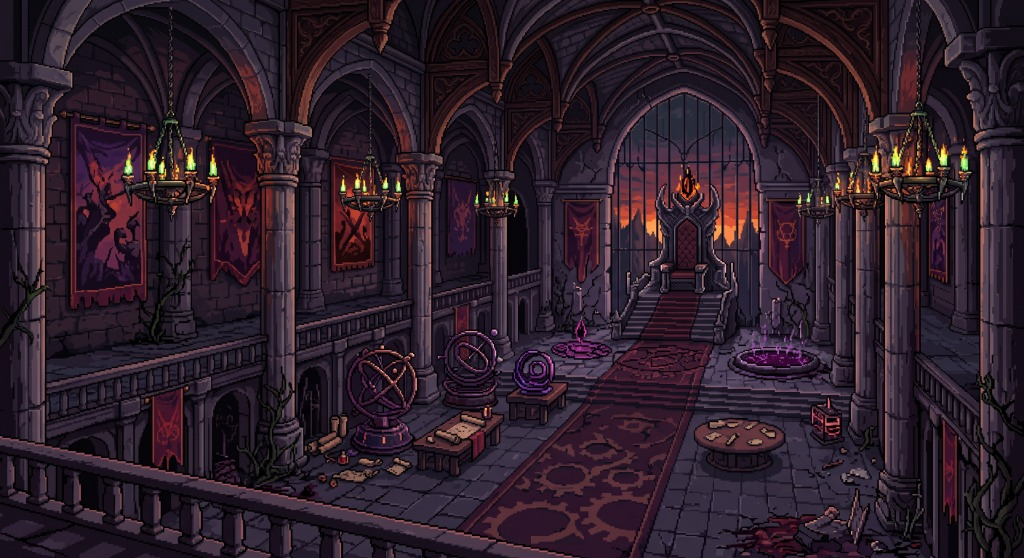
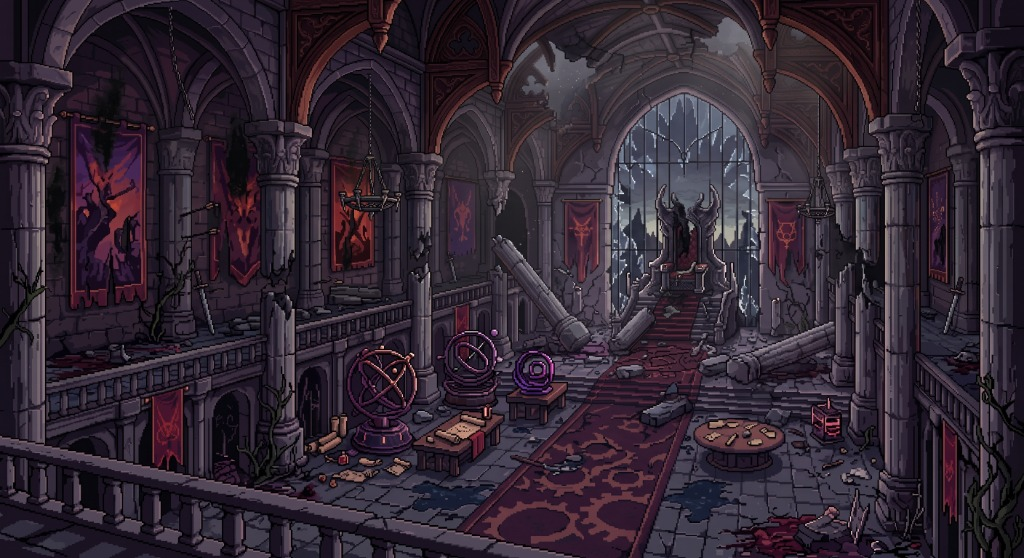
Update doctor battle background image (v455)

diff --git a/game/hello-world/index.html b/game/hello-world/index.html
@@ -25,7 +25,7 @@
   <link rel="preconnect" href="https://fonts.googleapis.com" />
   <link rel="preconnect" href="https://fonts.gstatic.com" crossorigin />
   <link href="https://fonts.googleapis.com/css2?family=DotGothic16&family=Press+Start+2P&display=swap" rel="stylesheet" />
-  <link rel="stylesheet" href="styles/styles.css?v=454" />
+  <link rel="stylesheet" href="styles/styles.css?v=455" />
 </head>
 <body>
   <div id="orientation-warning">
@@ -50,27 +50,27 @@
 
   <!-- Game Logic -->
   <script>
-    window.GAME_VERSION = 'v454';
+    window.GAME_VERSION = 'v455';
   </script>
-  <script src="src/logic/audio.js?v=454"></script>
-  <script src="src/logic/flags.js?v=454"></script>
-  <script src="src/logic/endings.js?v=454"></script>
-  <script src="src/logic/controls.js?v=454"></script>
-  <script src="src/logic/enemies.js?v=454"></script>
-  <script src="src/logic/items.js?v=454"></script>
-  <script src="src/logic/doctorDirective.js?v=454"></script>
+  <script src="src/logic/audio.js?v=455"></script>
+  <script src="src/logic/flags.js?v=455"></script>
+  <script src="src/logic/endings.js?v=455"></script>
+  <script src="src/logic/controls.js?v=455"></script>
+  <script src="src/logic/enemies.js?v=455"></script>
+  <script src="src/logic/items.js?v=455"></script>
+  <script src="src/logic/doctorDirective.js?v=455"></script>
 
   <!-- Scenes -->
-  <script src="src/scenes/BootScene.js?v=454"></script>
-  <script src="src/scenes/TitleScene.js?v=454"></script>
-  <script src="src/scenes/StoryScene.js?v=454"></script>
-  <script src="src/scenes/GameScene.js?v=454"></script>
-  <script src="src/scenes/EndingScene.js?v=454"></script>
-  <script src="src/scenes/BossScene.js?v=454"></script>
+  <script src="src/scenes/BootScene.js?v=455"></script>
+  <script src="src/scenes/TitleScene.js?v=455"></script>
+  <script src="src/scenes/StoryScene.js?v=455"></script>
+  <script src="src/scenes/GameScene.js?v=455"></script>
+  <script src="src/scenes/EndingScene.js?v=455"></script>
+  <script src="src/scenes/BossScene.js?v=455"></script>
 
   <!-- Core -->
-  <script src="src/config.js?v=454"></script>
-  <script src="src/main.js?v=454"></script>
+  <script src="src/config.js?v=455"></script>
+  <script src="src/main.js?v=455"></script>
 
   <script>
     // 全画面表示（フルスクリーン）切り替え
